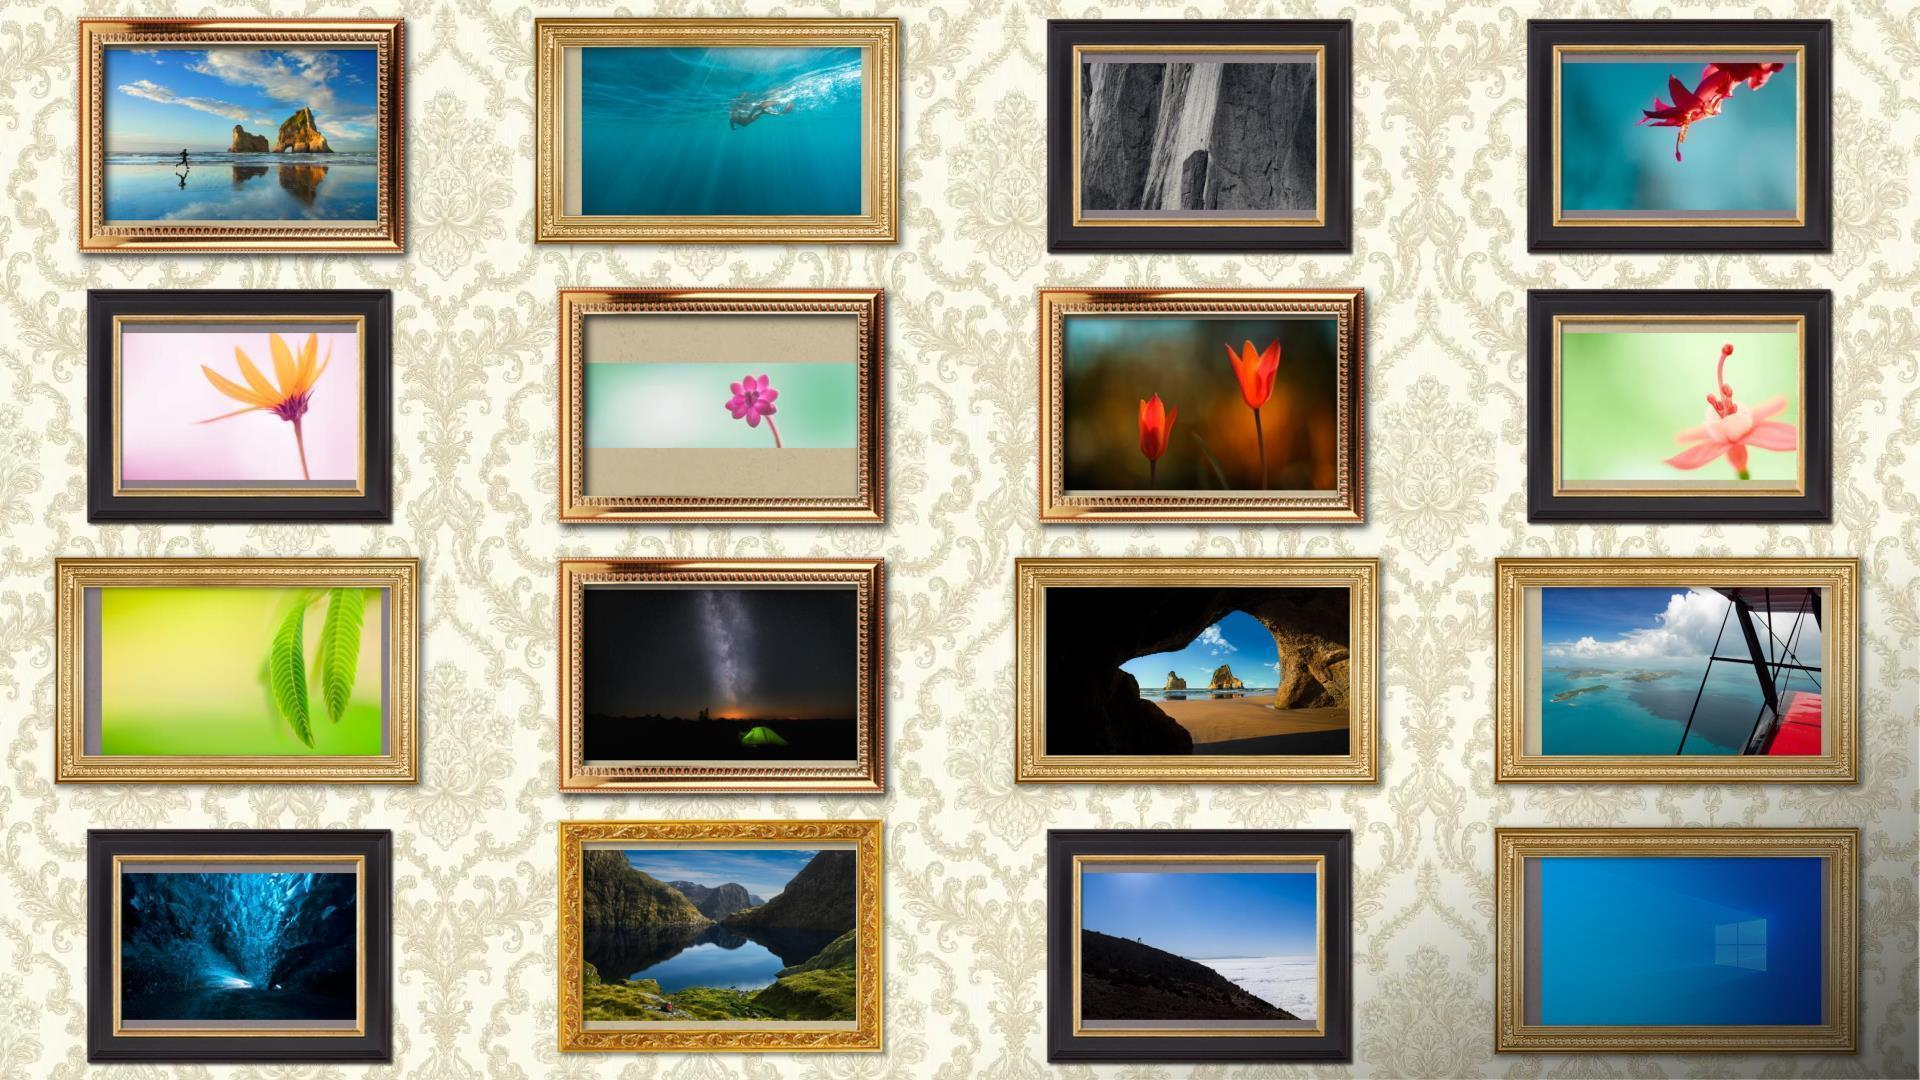
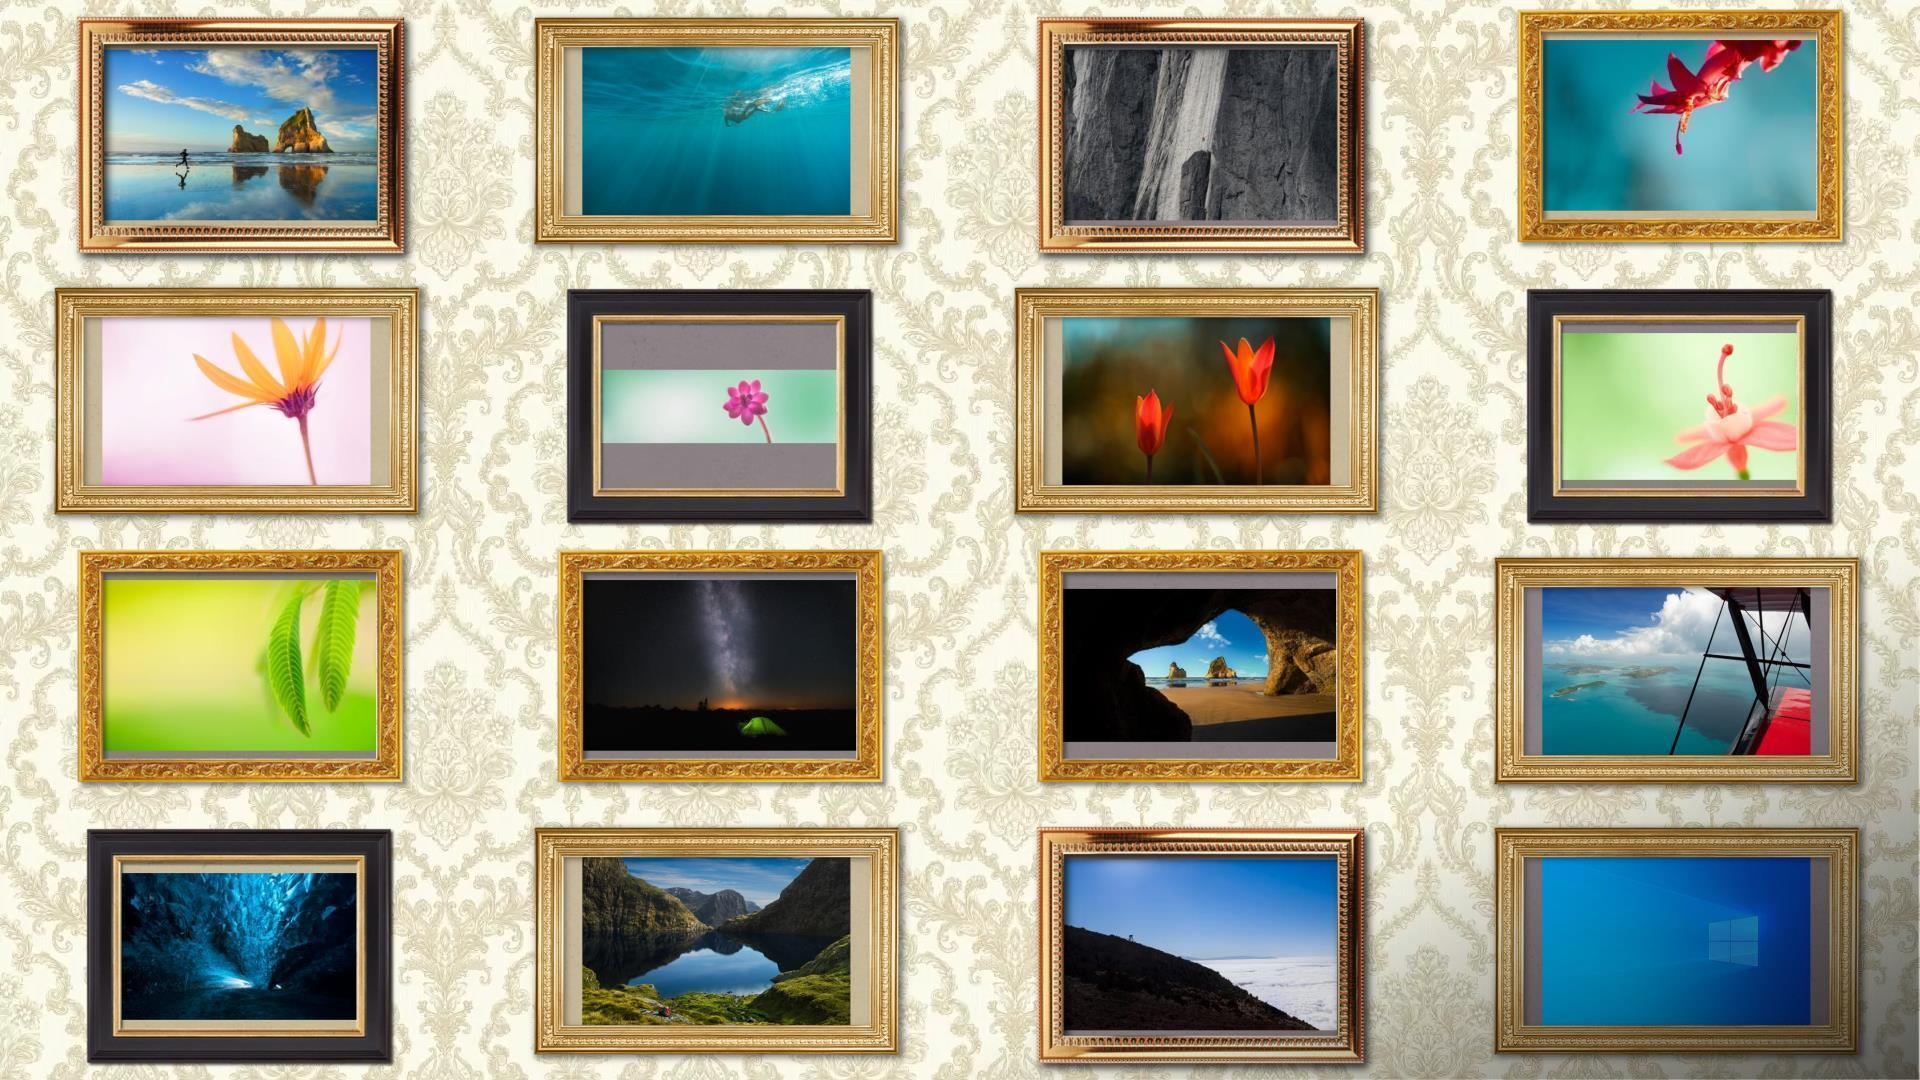
positions fixes

diff --git a/config.js b/config.js
@@ -70,8 +70,8 @@ var config = {
 			paddings:{
 				left:		98,
 				top:		91,
-				right:		92,
-				bottom:		92		
+				right:		111,
+				bottom:		106		
 			}
 		}		
 	]
